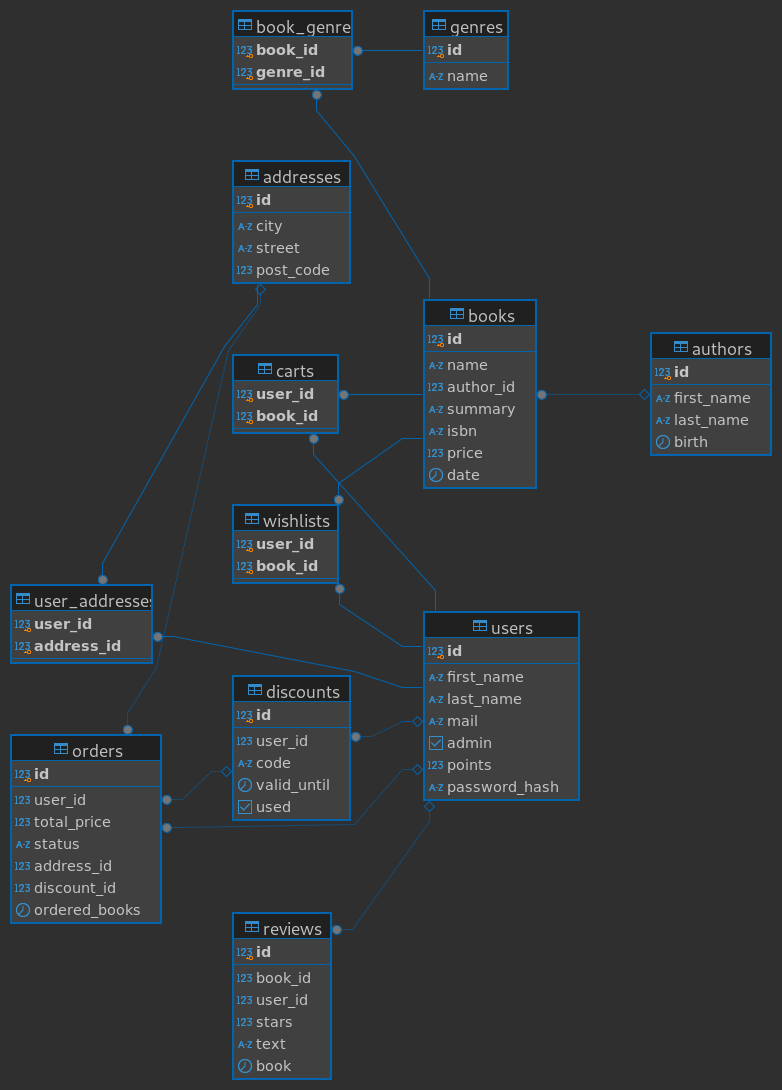
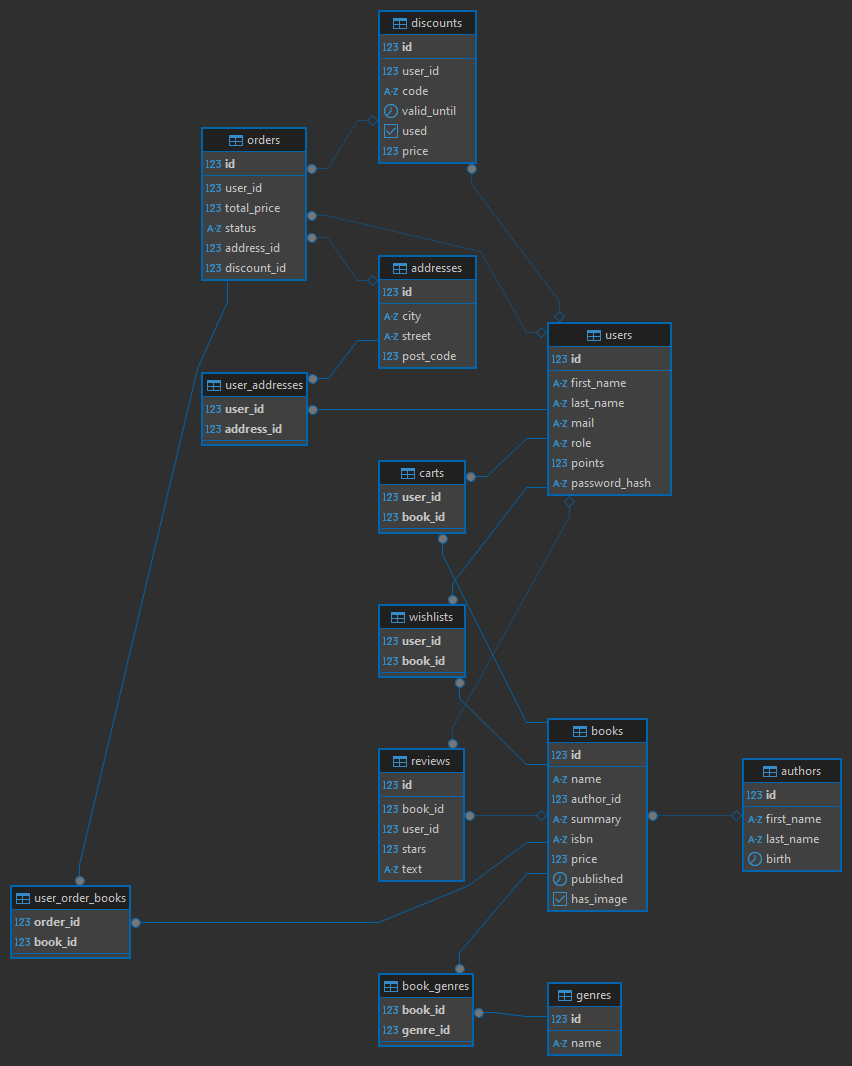
Aktualizace databázového schmématu.

diff --git a/README.md b/README.md
@@ -32,3 +32,7 @@ sudo docker compose up -d --build
 ## Swagger UI (pokud povoleno)
 
 <https://dbs2-backend.josefraz.cz/swagger>
+
+## Databázové schéma
+
+![Databázové schéma](dbs2%20-%20public.png)
